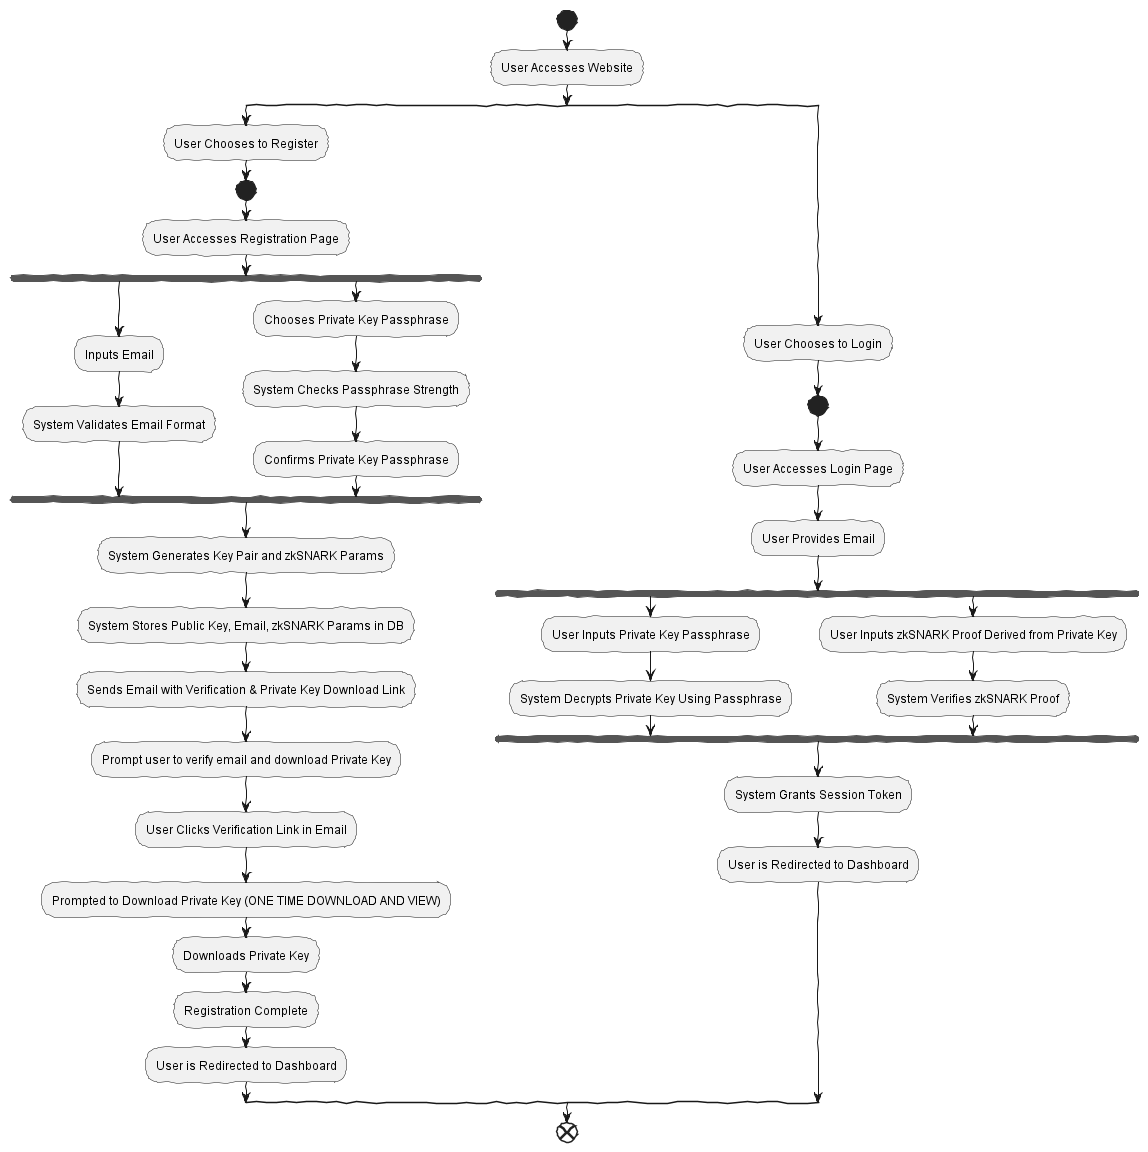
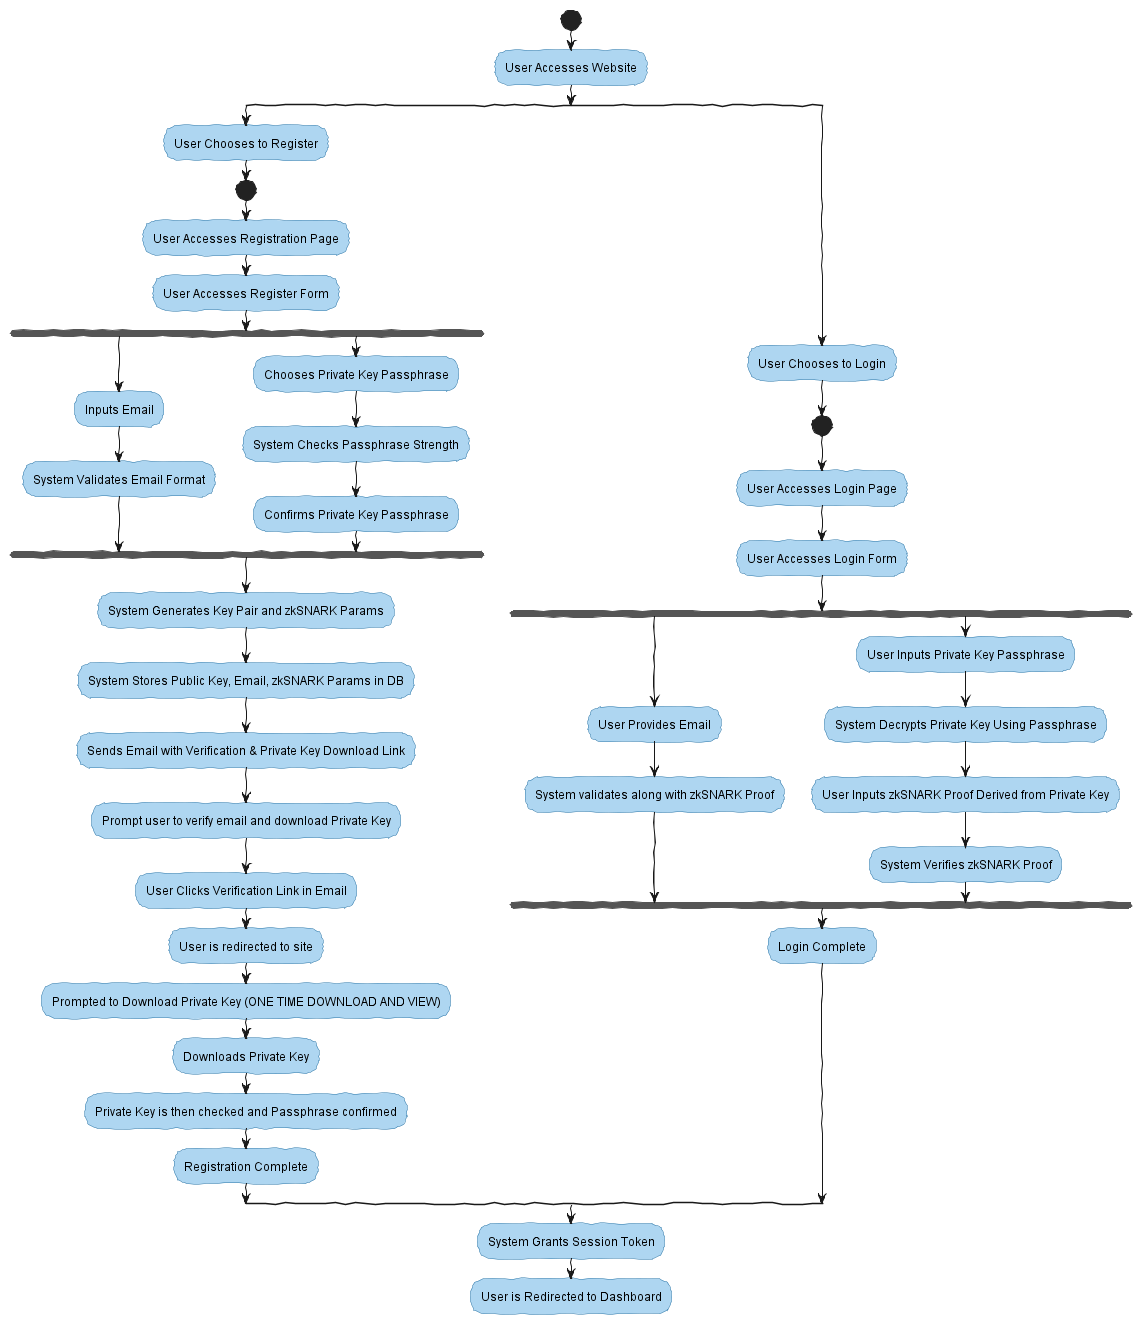
Fixed up auth login flow

diff --git a/docs/UML/Auth/AuthFlow.md b/docs/UML/Auth/AuthFlow.md
@@ -13,12 +13,19 @@ start
 
 :User Accesses Website;
 
+' Color settings for the "Registration" split
+skinparam Activity {
+  BackgroundColor #E6B0AA
+  BorderColor #943126
+}
+
 ' Level 2: Initial Actions
 split
     :User Chooses to Register;
     ' Level 3: Registration Flow
     start
     :User Accesses Registration Page;
+    :User Accesses Register Form;
     fork
         :Inputs Email;
         :System Validates Email Format;
@@ -33,28 +40,37 @@ split
     :Sends Email with Verification & Private Key Download Link;
     :Prompt user to verify email and download Private Key;
     :User Clicks Verification Link in Email;
+    :User is redirected to site;
     :Prompted to Download Private Key (ONE TIME DOWNLOAD AND VIEW);
     :Downloads Private Key;
+    :Private Key is then checked and Passphrase confirmed;
     :Registration Complete;
-    :User is Redirected to Dashboard;
 
+' Color settings for the "Login" split
+skinparam Activity {
+  BackgroundColor #AED6F1
+  BorderColor #2874A6
+}
 
 split again
     :User Chooses to Login;
     ' Level 3: Login Flow
     start
     :User Accesses Login Page;
-    :User Provides Email;
+    :User Accesses Login Form;
     fork
+        :User Provides Email;
+        :System validates along with zkSNARK Proof;
+    fork again
         :User Inputs Private Key Passphrase;
         :System Decrypts Private Key Using Passphrase;
-    fork again
         :User Inputs zkSNARK Proof Derived from Private Key;
         :System Verifies zkSNARK Proof;
     end fork
-    :System Grants Session Token;
-    :User is Redirected to Dashboard;
+    :Login Complete;
 end split
 
-end
+:System Grants Session Token;
+:User is Redirected to Dashboard;
+
 @enduml
